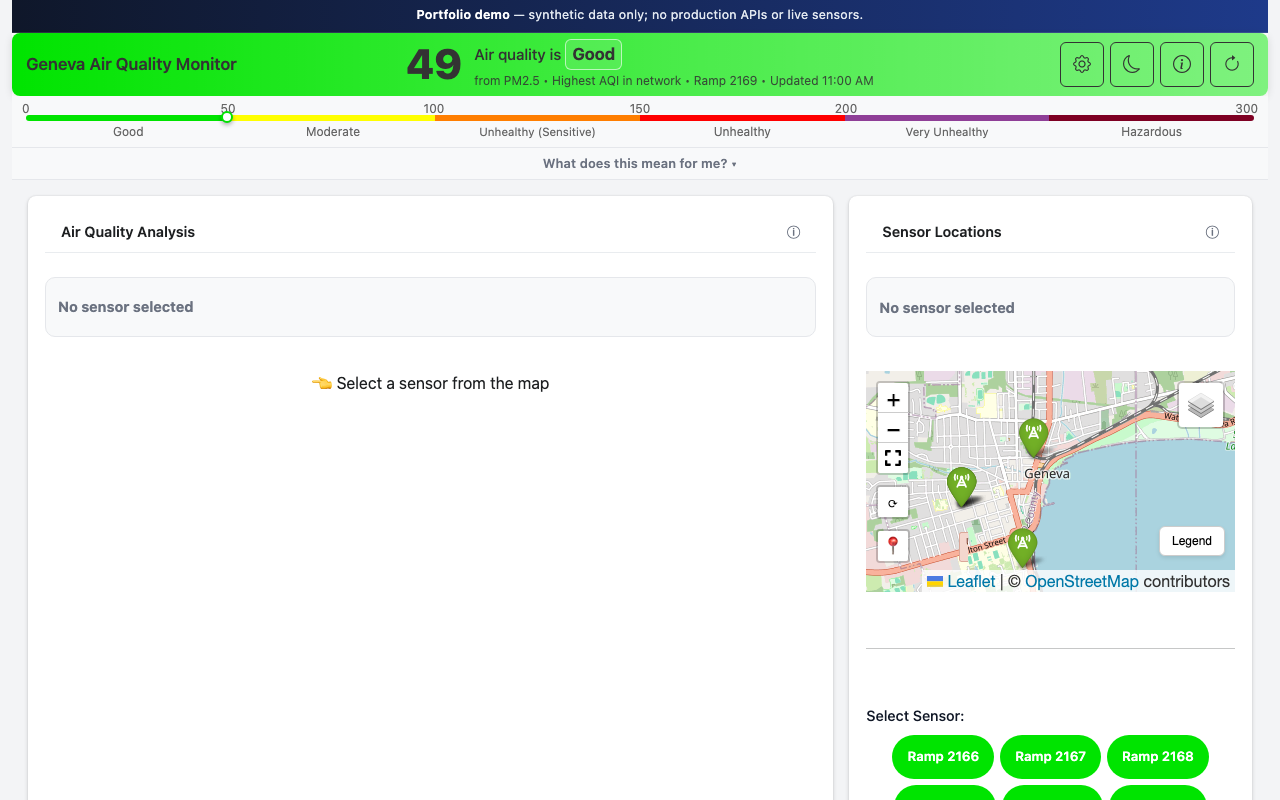
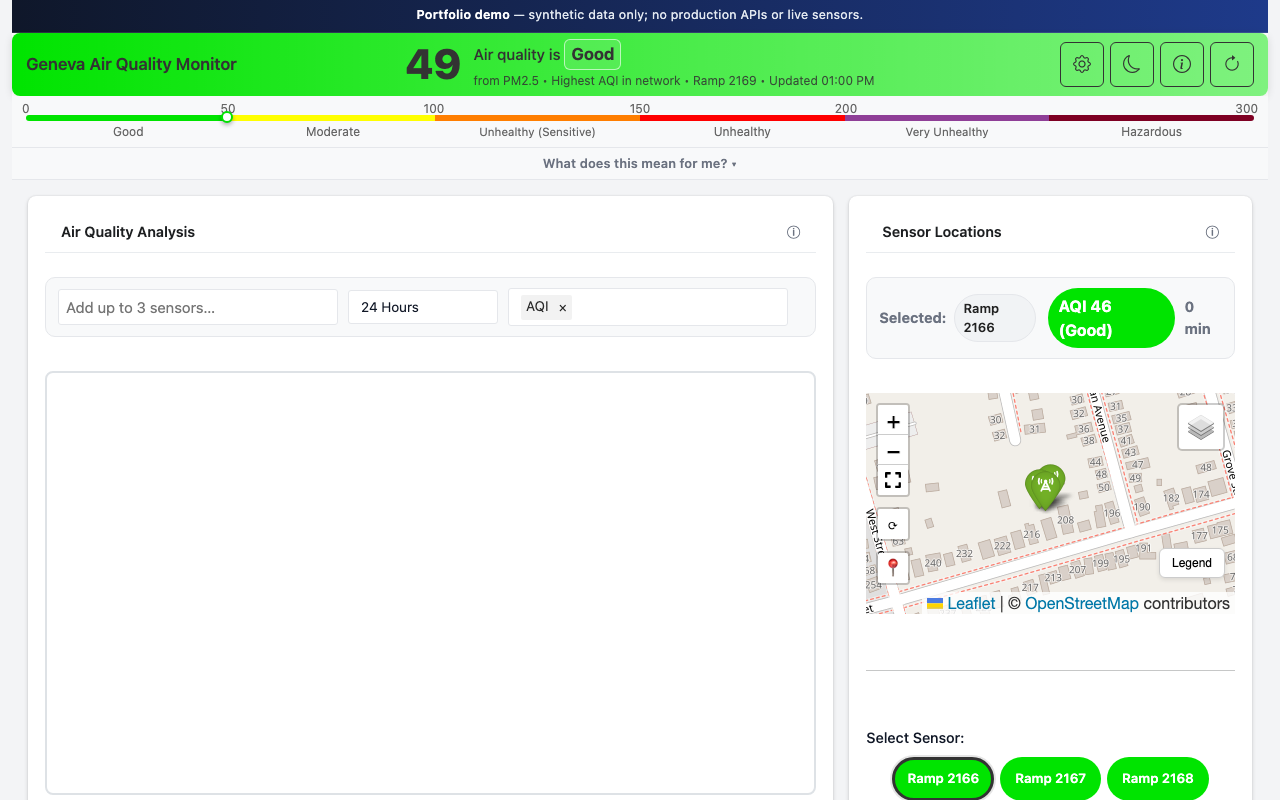
Improve project visuals: poster, maps, plots, and SFGC shot.
Recapture live thumbnails with sensor selection and map navigation; remove Geneva data-flow diagram from case study.

diff --git a/index.html b/index.html
@@ -106,10 +106,6 @@
                   <li>Deployed an interactive public dashboard (maps, trends, sensor health) on Cloud Run.</li>
                   <li>Infrastructure supports roughly 3.15 million potential sensor records per year (six sensors, one reading per minute).</li>
                 </ul>
-                <figure class="architecture">
-                  <img src="assets/images/projects/geneva-architecture.svg" width="720" height="220" alt="Architecture diagram: sensors to API, Cloud Function, BigQuery, analytics, Shiny on Cloud Run; Scheduler and Pub/Sub trigger ingestion">
-                  <figcaption>Data flow (solid) and scheduling/control (dashed). Scheduler does not carry sensor readings.</figcaption>
-                </figure>
                 <h4>Outcomes</h4>
                 <p>
                   Presented the dashboard at the Air Sensors International Conference (Los Angeles, May 2026).
@@ -170,7 +166,8 @@
         </article>
 
         <!-- SFGC -->
-        <article class="project-card featured project-card--no-media" id="project-sfgc">
+        <article class="project-card featured" id="project-sfgc">
+          <img class="project-thumb" src="assets/images/projects/sfgc-internal.png" width="800" height="500" alt="SFGC integrated internal dashboard — overview tab">
           <div class="project-body">
             <p class="project-org">Success for Geneva's Children</p>
             <h3><a href="#project-sfgc">Success for Geneva's Children — Integrated Internal Dashboard</a></h3>
@@ -265,7 +262,8 @@
           </div>
         </article>
 
-        <article class="project-card project-card--no-media" id="project-nyc-transport">
+        <article class="project-card" id="project-nyc-transport">
+          <img class="project-thumb" src="assets/images/projects/nyc-transport.png" width="800" height="500" alt="Research poster — NYC vehicle collisions and household income by ZIP code">
           <div class="project-body">
             <h3>NYC Transportation Safety &amp; Income Analysis</h3>
             <p class="project-summary">
